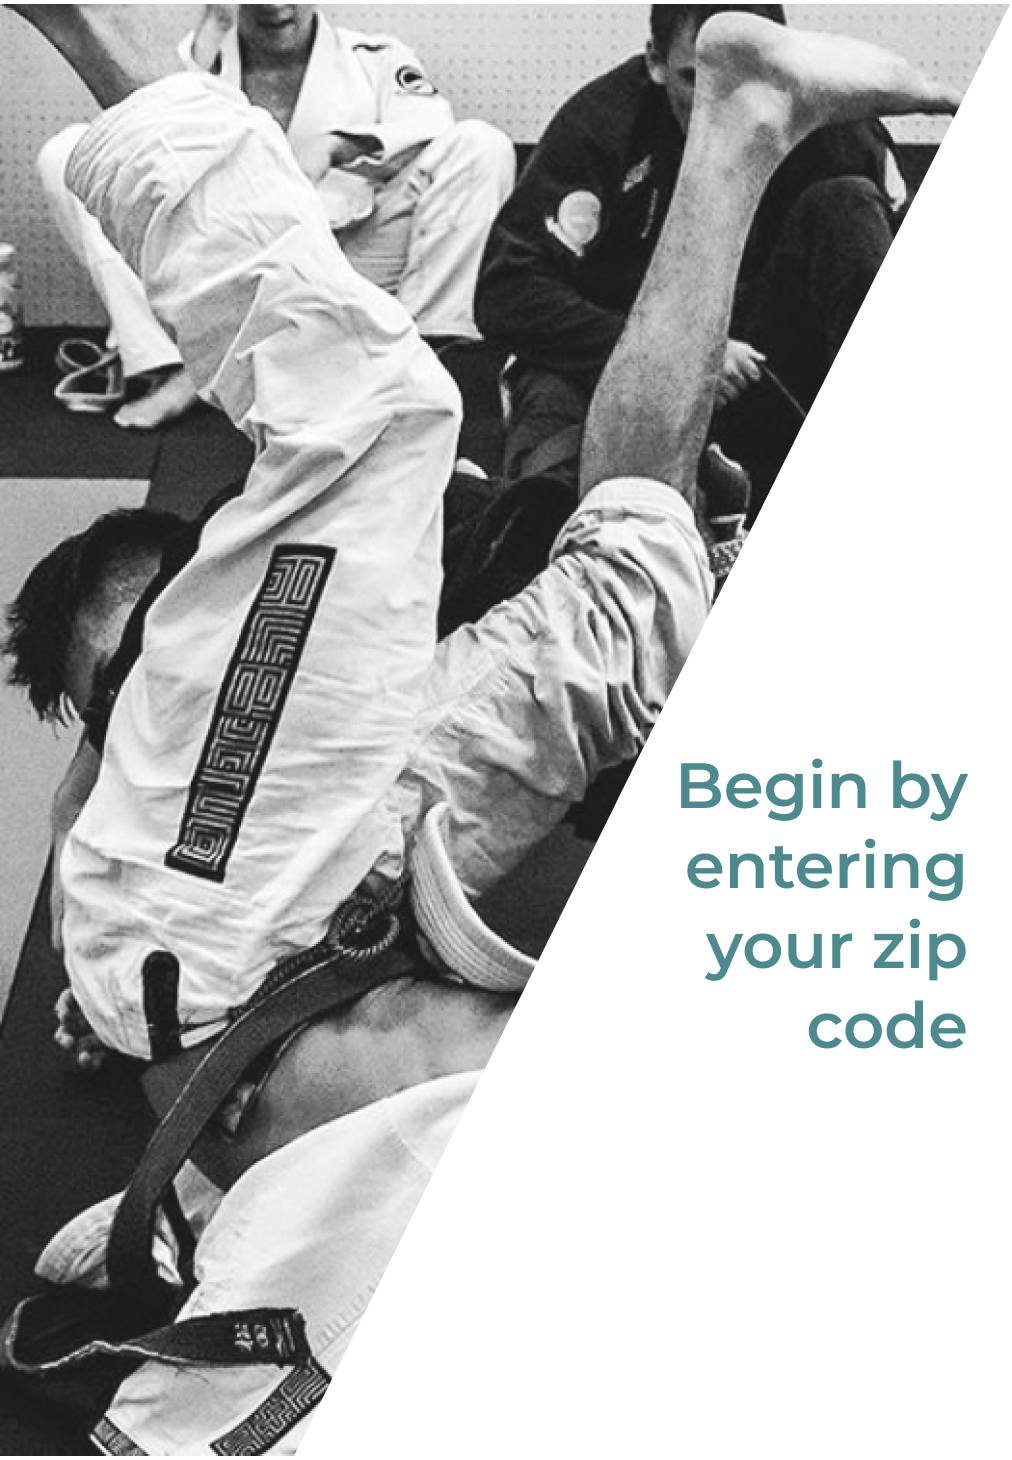
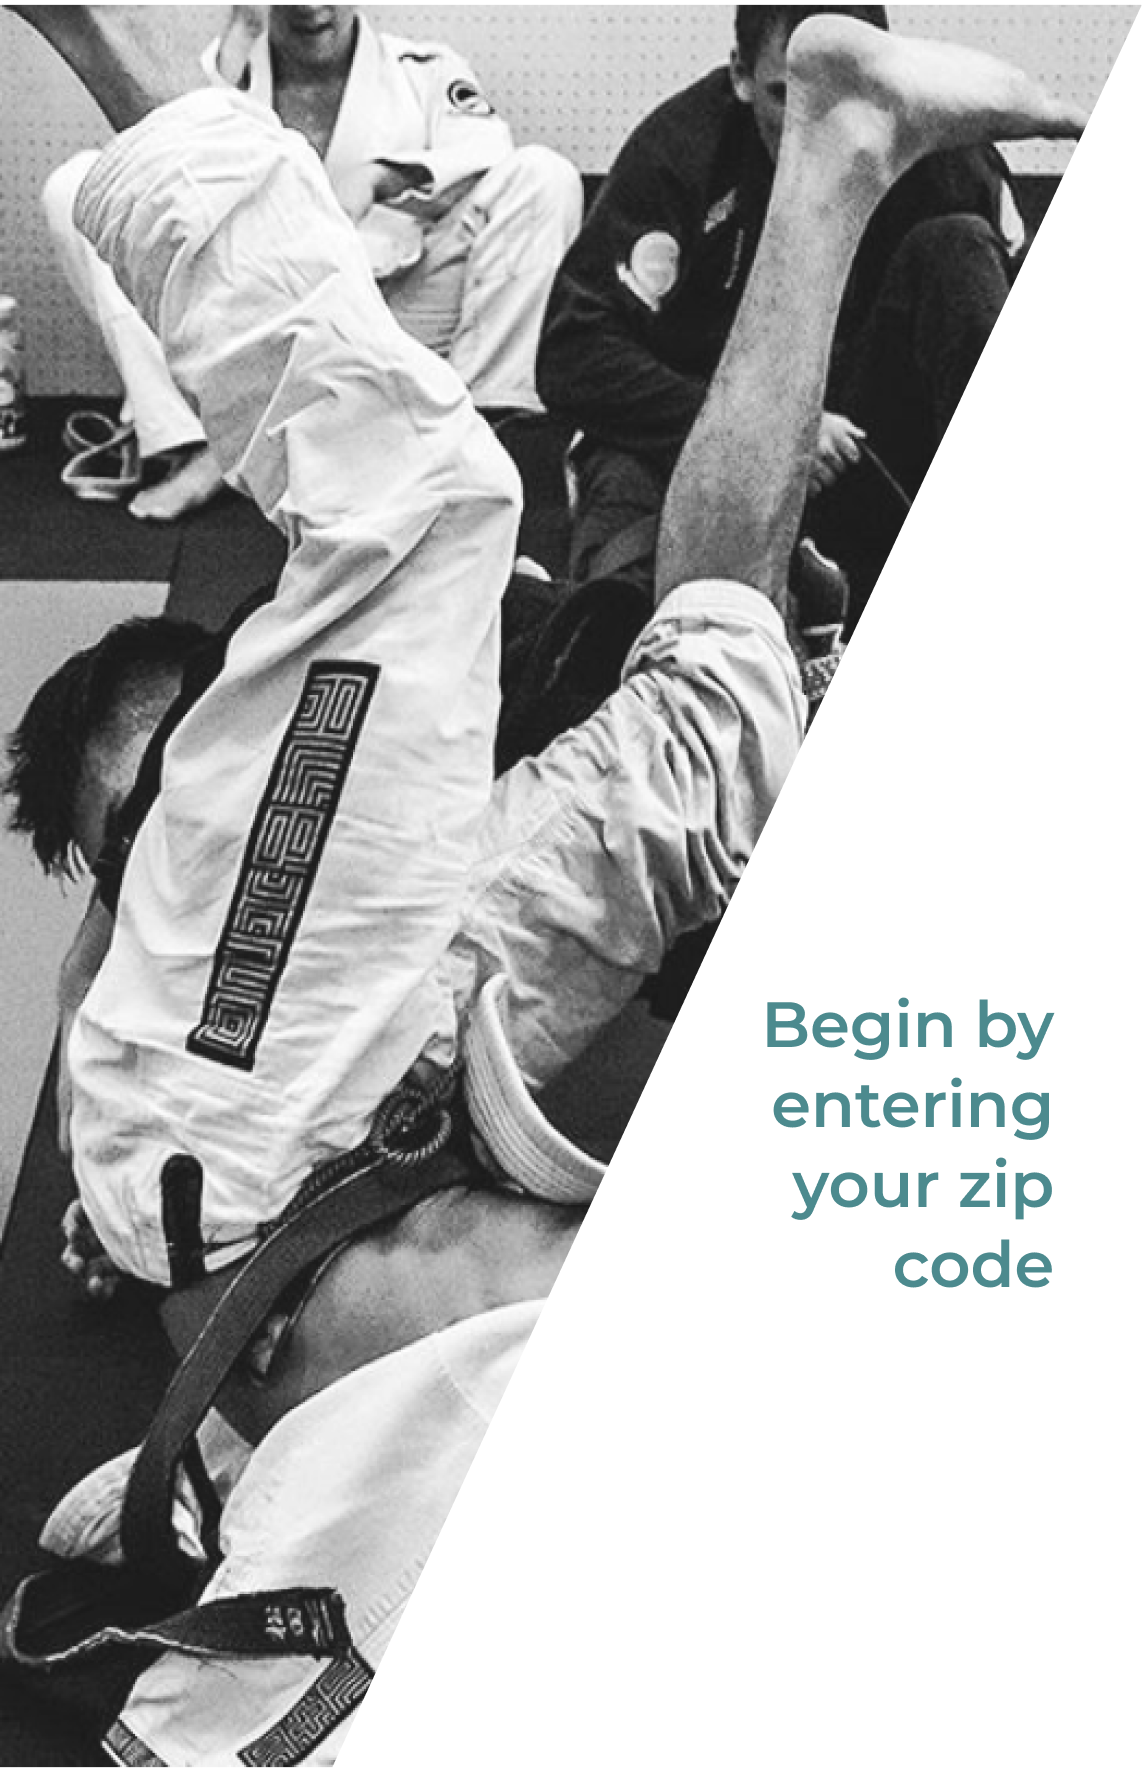
update style and margins to fit simulator

Changed region(s): [[0.6739, 0.524, 0.9496, 0.7397]]

diff --git a/src/css/Splash.css b/src/css/Splash.css
@@ -7,8 +7,8 @@
 }
 
 .photo-container img {
-  width: 380px;
-  height: 580px;
+  width: 420px;
+  height: 680px;
 }
 
 .photo-container {

diff --git a/src/css/LocationList.css b/src/css/LocationList.css
@@ -1,5 +1,5 @@
 .explore-photo img {
   margin-top: 15%;
-  width: 400px;
+  width: 420px;
   height: auto;
 }
